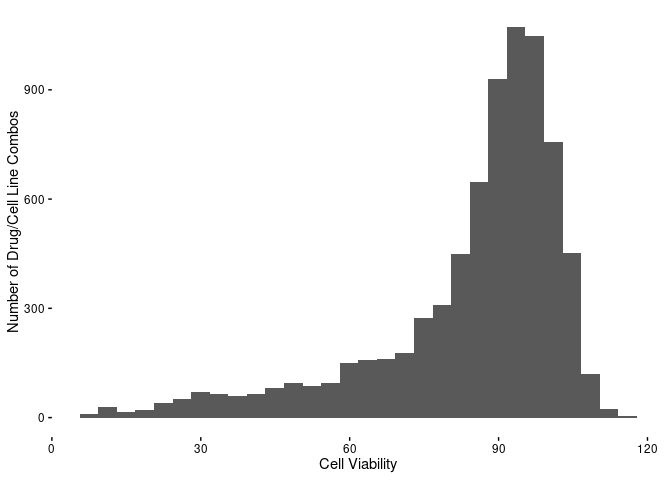
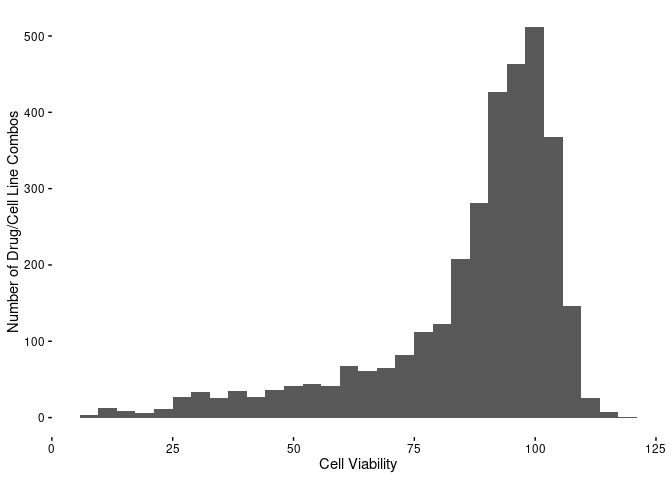
updating filenames and assocaited code

diff --git a/src/process_screen_data/build_screen_EDA_figures.md b/src/process_screen_data/build_screen_EDA_figures.md
@@ -1,14 +1,14 @@
 Build EDA Figures
 ================
 Matthew Berginski
-2021-06-08
+2021-07-07
 
 # Read In Combined Klaeger/Synergy Data and Organize
 
 This chunk of code reads in the pre-processed Klaeger/Synergy data.
 
 ``` r
-klaeger_data_matches_full = read_rds(here('results/klaeger_synergy_for_regression.rds'))
+klaeger_data_matches_full = read_rds(here('results/klaeger_screen_for_regression.rds'))
 ```
 
 ``` r
@@ -40,7 +40,7 @@ ggplot(klaeger_data_matches_full, aes(x = viability)) +
 
     ## `stat_bin()` using `bins = 30`. Pick better value with `binwidth`.
 
-![](build_synergy_EDA_figures_files/figure-gfm/distribution%20of%20viability-1.png)<!-- -->
+![](build_screen_EDA_figures_files/figure-gfm/distribution%20of%20viability-1.png)<!-- -->
 
 ``` r
 library(ggridges)
@@ -55,15 +55,16 @@ ggplot(klaeger_data_matches_full, aes(x=viability,y=cell_line)) +
 
     ## Warning: `expand_scale()` is deprecated; use `expansion()` instead.
 
-    ## Picking joint bandwidth of 2.58
+    ## Picking joint bandwidth of 3.23
 
-![](build_synergy_EDA_figures_files/figure-gfm/unnamed-chunk-2-1.png)<!-- -->
+![](build_screen_EDA_figures_files/figure-gfm/unnamed-chunk-2-1.png)<!-- -->
 
 ``` r
+dir.create(here('figures/EDA_plots'), recursive = T, showWarnings = F)
 ggsave(here('figures/EDA_plots/cell_line_viability_plots.png'),height = 6.5, width = 4)
 ```
 
-    ## Picking joint bandwidth of 2.58
+    ## Picking joint bandwidth of 3.23
 
 ``` r
 trimImage(here('figures/EDA_plots/cell_line_viability_plots.png'))
@@ -78,16 +79,16 @@ ggplot(klaeger_data_matches_full, aes(x=viability,y=drug)) +
     theme_berginski()
 ```
 
-    ## Picking joint bandwidth of 4.04
+    ## Picking joint bandwidth of 4.73
 
-![](build_synergy_EDA_figures_files/figure-gfm/unnamed-chunk-3-1.png)<!-- -->
+![](build_screen_EDA_figures_files/figure-gfm/unnamed-chunk-3-1.png)<!-- -->
 
 ``` r
 ggsave(here('figures/EDA_plots/compound_viability_plots.png'),height = 6.5)
 ```
 
     ## Saving 7 x 6.5 in image
-    ## Picking joint bandwidth of 4.04
+    ## Picking joint bandwidth of 4.73
 
 ``` r
 trimImage(here('figures/EDA_plots/compound_viability_plots.png'))
@@ -110,6 +111,6 @@ ggplot(treatment_variability, aes(x=viability_sd,y=cell_line)) +
     theme_berginski()
 ```
 
-    ## Picking joint bandwidth of 0.586
+    ## Picking joint bandwidth of 0.726
 
-![](build_synergy_EDA_figures_files/figure-gfm/unnamed-chunk-4-1.png)<!-- -->
+![](build_screen_EDA_figures_files/figure-gfm/unnamed-chunk-4-1.png)<!-- -->
